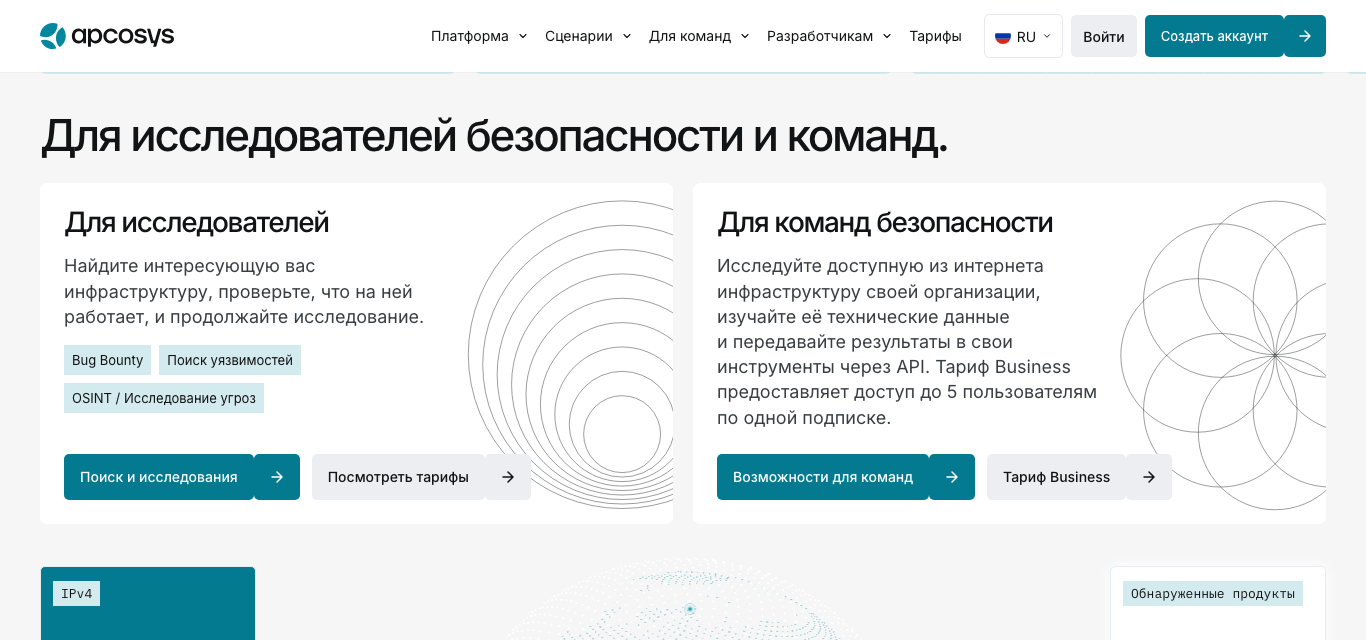
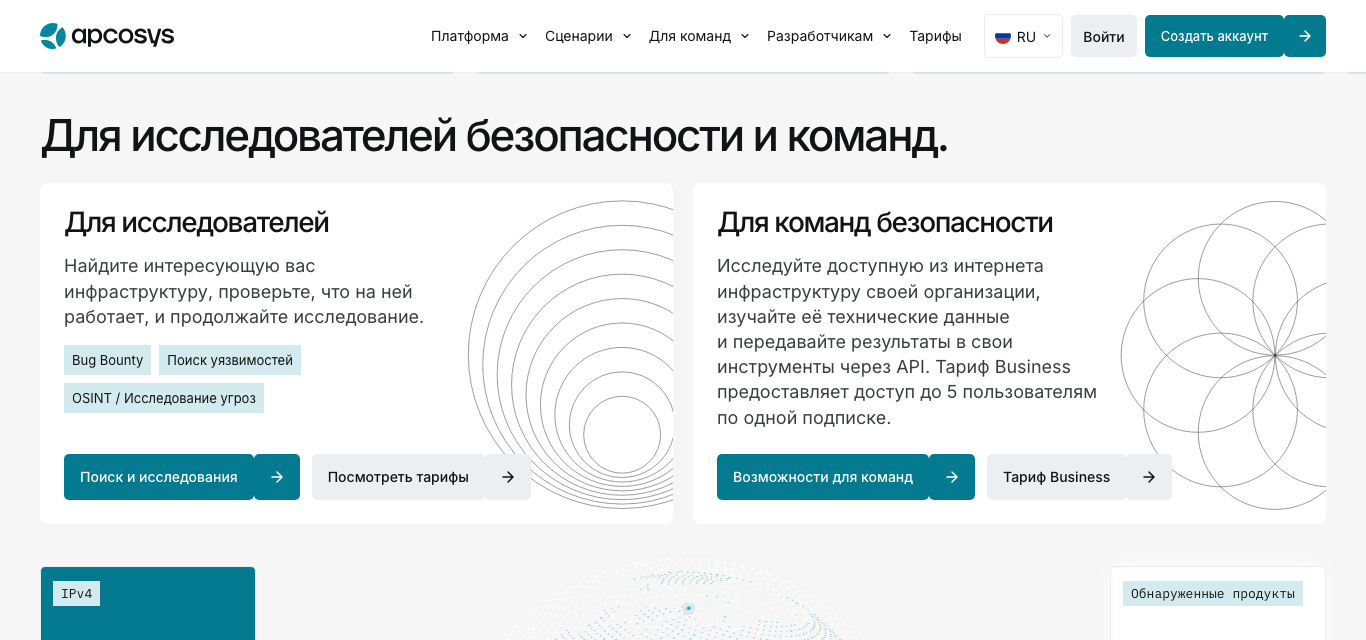
Include wide desktop windows and retain final viewport evidence
Extend the same composition to wide usable 2560x1320 windows, with natural flow for tall narrow and very short viewports.

Verified final source: 116/116 full cached Chromium scenarios, 45/45 targeted three-engine scenarios, 22 normal-motion viewport reviews. All source and build hashes match the tested preview.

diff --git a/src/styles/short-desktop.css b/src/styles/short-desktop.css
@@ -1,5 +1,6 @@
 /* Use the actual CSS viewport, including browser chrome and display scaling. */
-@media (min-width: 1200px) and (max-height: 1100px) {
+@media (min-width: 1200px) and (max-height: 1100px),
+  (min-width: 1200px) and (min-aspect-ratio: 8/5) {
   :root {
     --section-space: clamp(24px, 4vh, 48px);
   }

diff --git a/tests/short-desktop.spec.ts b/tests/short-desktop.spec.ts
@@ -36,6 +36,7 @@ for (const [width, height] of [
   [1280, 600],
   [1536, 740],
   [1920, 950],
+  [2560, 1320],
 ]) {
   test(`complete desktop scenes fit below the header at ${width}x${height}`, async ({ page }) => {
     for (const lang of ['en', 'ru']) {

diff --git a/docs/REVIEW-R11.md b/docs/REVIEW-R11.md
@@ -4,7 +4,7 @@ Owner request, 2026-10-06: desktop sections exceed a 16:9 screen, especially whe
 
 ## Behavior
 
-- At desktop widths from 1200 px and viewport heights up to 1100 px, composition responds to the actual CSS viewport height. Tall windows and the existing phone/tablet composition retain their natural layouts.
+- At desktop widths from 1200 px, composition responds to the actual CSS viewport height in short windows up to 1100 px and wider windows with at least an 8:5 aspect ratio. This also covers 2560×1320 usable viewports. Tall, narrow windows and the existing phone/tablet composition retain their natural layouts.
 - The carousel heading flows inline, its introduction and controls use less space, and the cards devote their available height to the original interface illustrations. The section fits below a 96 px navigation allowance, with an 800 px ceiling to avoid excessive blank space on full HD. Text supplies the intrinsic minimum; below 600 px height, the carousel explicitly returns to normal document flow in all engines.
 - Audience cards use shorter vertical spacing, naturally wrapping horizontal actions and wider text columns. Decorative contours retain their original rendering and clipped placement. Main body text remains at least 18 px and action targets remain at least 44 px high. Russian title sizes also account for available width, including the 1200 px desktop boundary.
 - The data scene, API frame and closing mockup respond to viewport height. Numeric values retain their established readable sizes; the prepared interface images keep their original aspect ratios. The opening hero loses excess vertical spacing, allowing the full HD search to appear in its natural position without an unnecessary lift. When the search needs a lift, its existing smooth settling and state preservation remain.
@@ -12,10 +12,10 @@ Owner request, 2026-10-06: desktop sections exceed a 16:9 screen, especially whe
 
 ## Verification
 
-Runtime/test source: `3a8a0b74593607d3751275ffa877f523383971a9`, based on the released R10 main `92badd28bb66661241f53b63043a76a72d74cd47`. Locked install, supplied-engine checksums, lint, TypeScript, formatting and clean build pass. All six changed runtime/test files and all 14 JS/CSS files plus index.html are byte-identical between the local build and the tested isolated Mac preview.
+Runtime/test source: `84335d669eed22b1ee9ab4f263117416b5819ba9`, based on the released R10 main `92badd28bb66661241f53b63043a76a72d74cd47`. Locked install, supplied-engine checksums, lint, TypeScript, formatting and clean build pass. All six changed runtime/test files and all 14 JS/CSS files plus index.html are byte-identical between the local build and the tested isolated Mac preview.
 
-The new scenarios cover 1200×1000, 1280×600, 1536×740 and 1920×950 in EN/RU, full scene bounds below the header, readable text, action targets, carousel bounds, resize/language state, and the 1280×480 natural-flow fallback. The supplemental three-engine run also includes existing search entrance and six-width natural-language checks: **42/42 pass**, with no failures, skips or retries. The full Chromium result and exact source/build provenance are in [qa-r11-summary.json](qa-r11-summary.json); matching-browser CI and final Pages verification are recorded in the release pull request.
+The new scenarios cover 1200×1000, 1280×600, 1536×740, 1920×950 and 2560×1320 in EN/RU, full scene bounds below the header, readable text, action targets, carousel bounds, resize/language state, and the 1280×480 natural-flow fallback. The supplemental three-engine run also includes existing search entrance and six-width natural-language checks: **45/45 pass**, with no failures, skips or retries. The full Chromium result and exact source/build provenance are in [qa-r11-summary.json](qa-r11-summary.json); matching-browser CI and final Pages verification are recorded in the release pull request.
 
-Twenty normal-motion EN/RU viewport reviews span 390–1920 px and 600–1200 px height, with no runtime errors or page horizontal overflow. Four inspected captures and the complete geometry record are in [screenshots/r11/](screenshots/r11/). At 1536×740, the carousel falls from approximately 1209 to 644 px, and the audience section from 972 to 453 px in English / 443 px in Russian. The API, data and closing scenes also fit the available desktop reading frame.
+Twenty-two normal-motion EN/RU viewport reviews span 390–2560 px and 600–1320 px height, with no runtime errors or page horizontal overflow. Four inspected captures and the complete geometry record are in [screenshots/r11/](screenshots/r11/). At 1536×740, the carousel falls from approximately 1209 to 644 px, and the audience section from 972 to 453 px in English / 443 px in Russian. The API, data and closing scenes also fit the available desktop reading frame.
 
 Browser automation runs on macOS and subsequently Linux CI. The available CSS viewport models lost browser height and display scaling; this does not claim a physical Windows device check. Long pricing/FAQ content and narrow mobile reading flows remain naturally scrollable. Preserve R10's complete painted-background entrance, eager contours, search behavior, centered free hint, rounded API frame and menu motion. Figma, original engines, source artwork, copy, prices, billing and entitlements are unchanged.

diff --git a/docs/WORK-STATE.md b/docs/WORK-STATE.md
@@ -2,11 +2,11 @@
 
 ## Current continuation — R11, 2026-10-06
 
-The owner requested that desktop sections fit 16:9 screens after browser controls and Windows scaling reduce usable height, prioritizing the carousel and audience block. Read REVIEW-R11.md first. Runtime/test source `3a8a0b74593607d3751275ffa877f523383971a9` extends released main `92badd28bb66661241f53b63043a76a72d74cd47`. Height-aware CSS applies from 1200 px width through 1100 px height; the carousel fits below 96 px navigation with an 800 px ceiling and falls back to natural flow below 600 px height. Audience actions wrap horizontally; typography and original media respond to available height/width. Data, API and closing scenes are compacted too. Preserve readable body copy, natural current-language sizing, source media/engines and all R10 entrance/search/menu behavior.
+The owner requested that desktop sections fit 16:9 screens after browser controls and Windows scaling reduce usable height, prioritizing the carousel and audience block. Read REVIEW-R11.md first. Runtime/test source `84335d669eed22b1ee9ab4f263117416b5819ba9` extends released main `92badd28bb66661241f53b63043a76a72d74cd47`. Height-aware CSS applies from 1200 px width in windows up to 1100 px high and wide windows of at least 8:5 aspect ratio; the carousel fits below 96 px navigation with an 800 px ceiling and falls back to natural flow below 600 px height. Audience actions wrap horizontally; typography and original media respond to available height/width. Data, API and closing scenes are compacted too. Preserve readable body copy, natural current-language sizing, source media/engines and all R10 entrance/search/menu behavior.
 
-Locked installation, source checksums, lint, TypeScript, formatting and clean build pass. The final cached Chromium suite passes **115/115**, and the supplemental three-engine suite passes **42/42**, with zero failures, retries or skips. Twenty EN/RU viewport reviews have no page overflow or runtime errors; four inspected captures, before/after geometry and exact hashes are retained in screenshots/r11/ and qa-r11-summary.json. All changed runtime/test files and the 15 build files match the isolated Mac preview at http://127.0.0.1:4195/apcoweb/. Local automation is on macOS, not a physical Windows device. Preserve other projects and older modified worktrees.
+Locked installation, source checksums, lint, TypeScript, formatting and clean build pass. The final cached Chromium suite passes **116/116**, and the supplemental three-engine suite passes **45/45**, with zero failures, retries or skips. Twenty-two EN/RU viewport reviews have no page overflow or runtime errors; four inspected captures, before/after geometry and exact hashes are retained in screenshots/r11/ and qa-r11-summary.json. All changed runtime/test files and the 15 build files match the isolated Mac preview at http://127.0.0.1:4195/apcoweb/. Local automation is on macOS, not a physical Windows device. Preserve other projects and older modified worktrees.
 
-Continue the authorized GitHub publication on branch `feat/short-desktop-viewport-2026-10-06`: wait for matching three-engine CI and independent Chromium, merge the verified head into current main, then require Pages deployment plus all 115 live Chromium scenarios and published asset identity. The R11 pull request is the authoritative final release record; these local results are pre-publication evidence. Documentation-only follow-ups must keep runtime/tests byte-identical.
+Continue the authorized GitHub publication on branch `feat/short-desktop-viewport-2026-10-06`: wait for matching three-engine CI and independent Chromium, merge the verified head into current main, then require Pages deployment plus all 116 live Chromium scenarios and published asset identity. [PR #12](https://github.com/IMONsergey/apcoweb/pull/12) is the authoritative final release record; these local results are pre-publication evidence. Documentation-only follow-ups must keep runtime/tests byte-identical.
 
 ## Released R10, 2026-10-06
 

diff --git a/docs/QA-RESULTS.md b/docs/QA-RESULTS.md
@@ -1,8 +1,8 @@
 # R11 — usable desktop viewport, 2026-10-06
 
-Runtime/test source `3a8a0b74593607d3751275ffa877f523383971a9` passes **115/115** full cached Chromium scenarios and **42/42** supplemental Chromium/Firefox/WebKit scenarios, with no failures, retries or skips. Locked install, six supplied-engine checksums, lint, TypeScript, formatting and clean production build pass. All six changed runtime/test files and all 14 JS/CSS files plus index.html match the isolated Mac preview byte for byte.
+Runtime/test source `84335d669eed22b1ee9ab4f263117416b5819ba9` passes **116/116** full cached Chromium scenarios and **45/45** supplemental Chromium/Firefox/WebKit scenarios, with no failures, retries or skips. Locked install, six supplied-engine checksums, lint, TypeScript, formatting and clean production build pass. All six changed runtime/test files and all 14 JS/CSS files plus index.html match the isolated Mac preview byte for byte.
 
-Twenty normal-motion EN/RU viewport reviews have no runtime errors or page horizontal overflow. The desktop carousel and audience cards fit the actual reading height, including 1280×600 and 1536×740. The data, API and closing scenes also fit; body text and action target sizes remain readable. Very short windows return to natural flow. Four inspected lossless captures, baseline/final geometry and exact build provenance are retained in [screenshots/r11/](screenshots/r11/) and [qa-r11-summary.json](qa-r11-summary.json). Local runs use cached macOS browsers; matching-browser CI, main merge and actual Pages smoke are recorded in the R11 release pull request.
+Twenty-two normal-motion EN/RU viewport reviews have no runtime errors or page horizontal overflow. The desktop carousel and audience cards fit the actual reading height, including 1280×600 and 1536×740. The data, API and closing scenes also fit; body text and action target sizes remain readable. Very short windows return to natural flow. Four inspected lossless captures, baseline/final geometry and exact build provenance are retained in [screenshots/r11/](screenshots/r11/) and [qa-r11-summary.json](qa-r11-summary.json). Local runs use cached macOS browsers; matching-browser CI, main merge and actual Pages smoke are recorded in the R11 release pull request.
 
 # R10 — site entrance and composition, 2026-10-06
 

diff --git a/docs/screenshots/r11/README.md b/docs/screenshots/r11/README.md
@@ -1,7 +1,7 @@
 # R11 viewport review
 
-Runtime/test source: `3a8a0b74593607d3751275ffa877f523383971a9`. Production preview: `http://127.0.0.1:4195/apcoweb/`, isolated Mac worktree based on R10 main `92badd28bb66661241f53b63043a76a72d74cd47`. Cached macOS Chromium; normal motion, loaded fonts and complete visible carousel images. Captures use real scrolling and wheel reversal to restore navigation, without DOM/style changes.
+Runtime/test source: `84335d669eed22b1ee9ab4f263117416b5819ba9`. Production preview: `http://127.0.0.1:4195/apcoweb/`, isolated Mac worktree based on R10 main `92badd28bb66661241f53b63043a76a72d74cd47`. Cached macOS Chromium; normal motion, loaded fonts and complete visible carousel images. Captures use real scrolling and wheel reversal to restore navigation, without DOM/style changes.
 
-The four lossless PNGs show complete carousel and audience sections in EN at 1536×740 and RU at 1366×640. `geometry.json` records 20 EN/RU viewport reviews; `baseline-geometry.json` records 16 comparisons against released R10. The measured desktop composition includes 96 px clearance for the navigation. Phone/tablet reading flows and tall windows retain the established composition.
+The four lossless PNGs show complete carousel and audience sections in EN at 1536×740 and RU at 1366×640. `geometry.json` records 22 EN/RU viewport reviews; `baseline-geometry.json` records 16 comparisons against released R10. The measured desktop composition includes 96 px clearance for the navigation. Phone/tablet reading flows and tall windows retain the established composition.
 
 All four captures were visually inspected. Source/build hashes, browser paths, test results and prior candidate corrections are in `../../qa-r11-summary.json`. CSS viewport sizes model browser controls and display scaling; these are not physical Windows device captures.

diff --git a/docs/QA.md b/docs/QA.md
@@ -10,7 +10,7 @@ The test matrix is implemented in `tests/landing.spec.ts`. Results are generated
 - Disclosure navigation, Escape/focus restoration, mobile drawer, carousel end positions, native FAQ expansion, long text, validated search handoff, comparison and pricing dialogs.
 - Automated axe scans at desktop and phone widths. These do not establish complete WCAG conformance.
 - Animation frame changes, pause and reduced-motion behavior.
-- Height-aware desktop scenes at 1200×1000, 1280×600, 1536×740 and 1920×950 in both languages; readable copy, carousel bounds, full sections below navigation, resize state and natural flow at 1280×480. Simulated CSS viewports model reduced browser height; no physical Windows check is claimed.
+- Height-aware desktop scenes at 1200×1000, 1280×600, 1536×740, 1920×950 and 2560×1320 in both languages; readable copy, carousel bounds, full sections below navigation, resize state and natural flow at 1280×480. Simulated CSS viewports model reduced browser height; no physical Windows check is claimed.
 
 The full-page screenshots are stored in Playwright test output. Representative review captures and an execution summary are saved in this repository after a successful run.
 
